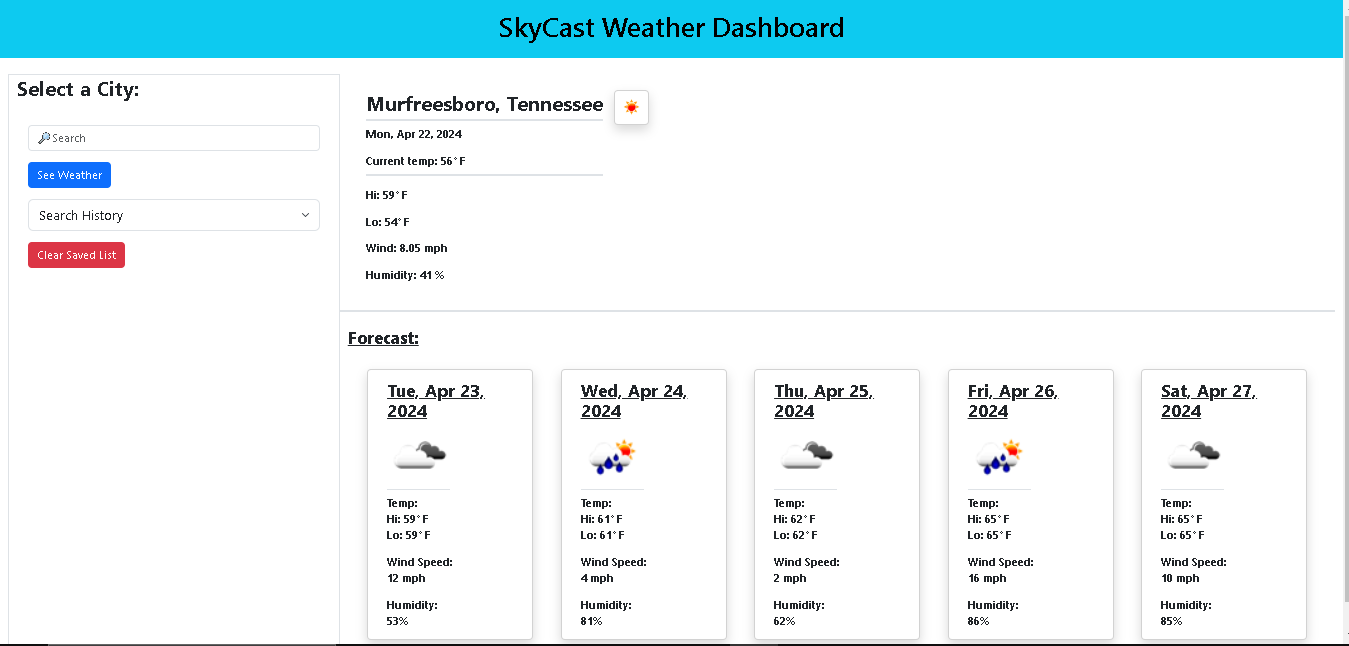
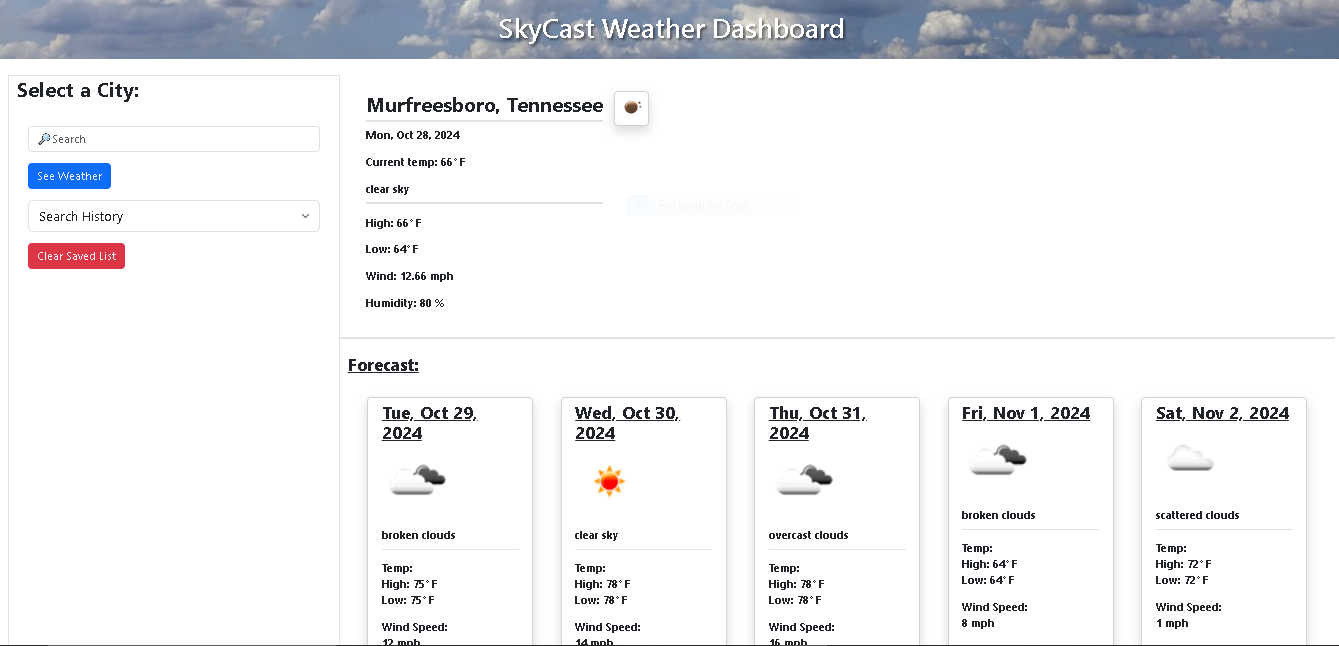
updated screenshots

diff --git a/assets/js/script.js b/assets/js/script.js
@@ -99,31 +99,68 @@ function getCurrentWeather(lat, lon) {
 
 // ---------------------------------------------------------------------------------
 
+// function getForecast(lat, lon, callback) {
+//     const requestUrl = `https://api.openweathermap.org/data/2.5/forecast?lat=${lat}&lon=${lon}&units=imperial&appid=0a2ac5dbbeb08b5bafd134ce15a7e8c5`;
+
+//     fetch(requestUrl)
+//         .then(function (response) {
+//             return response.json();
+//         })
+
+//         .then(function (data) {
+//             console.log('Get forecast .....................................');
+//             console.log(data);
+//             $('#forecast-cards-container').empty();
+
+//         //    console.log(currentTime);
+
+//             for (let i = 7; i < data.list.length; i += 8) {
+//                 console.log(data.list[i].dt_txt);
+//                         renderCard($('#forecast-cards-container'), data.list[i]);
+//                     }
+
+//             if (typeof callback == 'function') {
+//                 callback();
+//             }
+//         });
+// };
+
 function getForecast(lat, lon, callback) {
-    const requestUrl = `https://api.openweathermap.org/data/2.5/forecast?lat=${lat}&lon=${lon}&units=imperial&appid=0a2ac5dbbeb08b5bafd134ce15a7e8c5`;
+  const requestUrl = `https://api.openweathermap.org/data/2.5/forecast?lat=${lat}&lon=${lon}&units=imperial&appid=0a2ac5dbbeb08b5bafd134ce15a7e8c5`;
 
-    fetch(requestUrl)
-        .then(function (response) {
-            return response.json();
-        })
+  fetch(requestUrl)
+    .then(function (response) {
+      return response.json();
+    })
+    .then(function (data) {
+      console.log('Get forecast .....................................');
+      console.log(data);
+      $('#forecast-cards-container').empty();
 
-        .then(function (data) {
-            console.log('Get forecast .....................................');
-            console.log(data);
-            $('#forecast-cards-container').empty();
+      // Group the forecast data by date
+      const forecastByDate = {};
+      data.list.forEach((item) => {
+        const date = dayjs.unix(item.dt).format('YYYY-MM-DD');
+        if (!forecastByDate[date]) {
+          forecastByDate[date] = [];
+        }
+        forecastByDate[date].push(item);
+      });
 
-        //    console.log(currentTime);
+      // Filter to only the next 5 days
+      const nextFiveDays = Object.keys(forecastByDate).slice(0, 5);
 
-            for (let i = 7; i < data.list.length; i += 8) {
-                console.log(data.list[i].dt_txt);
-                        renderCard($('#forecast-cards-container'), data.list[i]);
-                    }
-            
-            if (typeof callback == 'function') {
-                callback();
-            }
-        });
-};
+      // Render one card per day for the next 5 days
+      nextFiveDays.forEach((date) => {
+        const middleIndex = Math.floor(forecastByDate[date].length / 2);
+        renderCard($('#forecast-cards-container'), forecastByDate[date][middleIndex]);
+      });
+
+      if (typeof callback == 'function') {
+        callback();
+      }
+    });
+}
 
 // ---------------------------------------------------------------------------------
 
